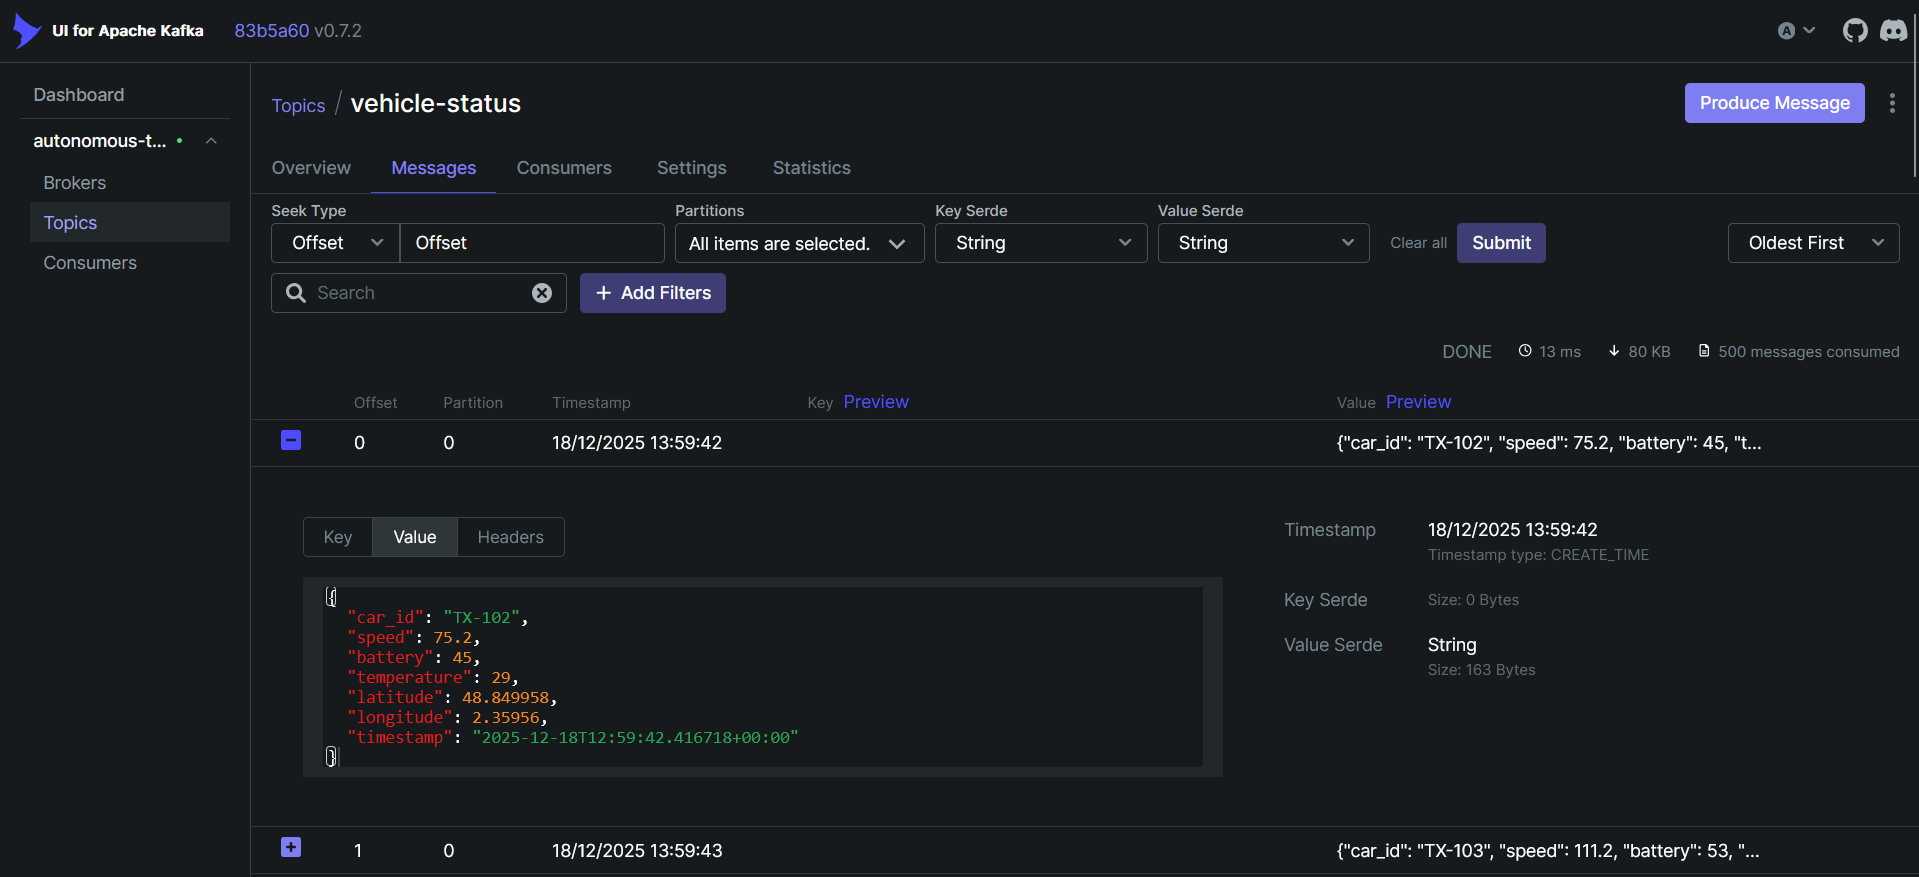
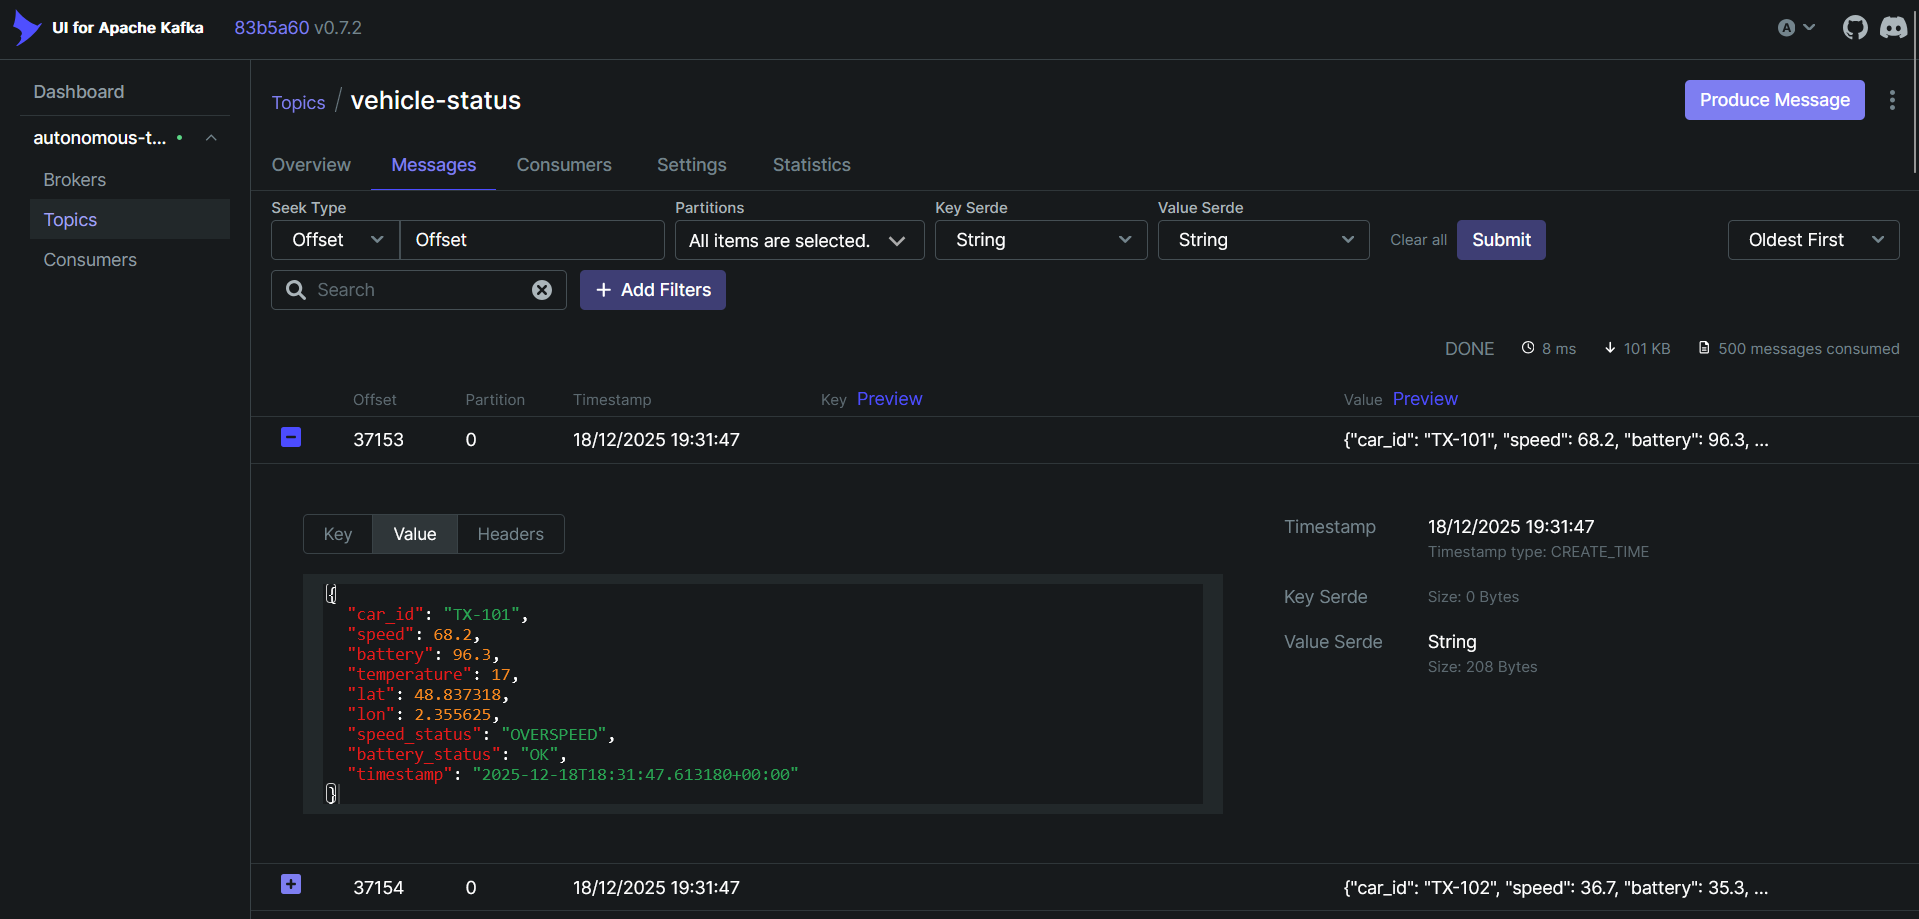
Refactor code structure for improved readability and maintainability

diff --git a/src/producer_taxi.py b/src/producer_taxi.py
@@ -12,12 +12,12 @@ BROKER = os.getenv("KAFKA_BROKER", "localhost:9092")
 VEHICLE_TOPIC = "vehicle-status"
 RIDE_TOPIC = "ride-events"
 
-CAR_IDS = ["TX-101", "TX-102", "TX-103", "TX-104"]
+CAR_IDS = [f"TX-{100 + i}" for i in range(1, 11)]
 USERS = ["U-201", "U-202", "U-203", "U-204", "U-205"]
 RIDE_EVENTS = ["ride_requested", "ride_started", "ride_canceled", "ride_finished"]
 
 # Thresholds
-SPEED_LIMIT = 30
+SPEED_LIMIT = 30 # 30 km/h for Paris downtown
 LOW_BATTERY_LIMIT = 20
 
 # Base location (Paris)
@@ -30,7 +30,7 @@ def current_timestamp():
 
 
 class Taxi:
-    def __init__(self, car_id, battery=None):
+    def __init__(self, car_id, position_index, battery=None):
         self.car_id = car_id
 
         # Battery initialization (optionally force low battery for demo)
@@ -39,9 +39,12 @@ class Taxi:
         # Start with some speed (km/h)
         self.speed = random.uniform(10.0, 30.0)
 
-        # Start near base location
-        self.lat = BASE_LAT + random.uniform(-0.01, 0.01)
-        self.lon = BASE_LON + random.uniform(-0.01, 0.01)
+        # Spread initial positions around the base location
+        angle = (position_index / len(CAR_IDS)) * 2 * math.pi
+        radius = 0.01
+        jitter = 0.001
+        self.lat = BASE_LAT + radius * math.cos(angle) + random.uniform(-jitter, jitter)
+        self.lon = BASE_LON + radius * math.sin(angle) + random.uniform(-jitter, jitter)
 
         # Random heading (0-360 degrees)
         self.heading = random.uniform(0, 360)
@@ -132,9 +135,9 @@ def main():
     for i, car_id in enumerate(CAR_IDS):
         if i == 0:
             # Force one car to start with low battery (< 20%)
-            fleet.append(Taxi(car_id, battery=random.uniform(5.0, 19.0)))
+            fleet.append(Taxi(car_id, position_index=i, battery=random.uniform(5.0, 19.0)))
         else:
-            fleet.append(Taxi(car_id))
+            fleet.append(Taxi(car_id, position_index=i))
 
     try:
         while True:
